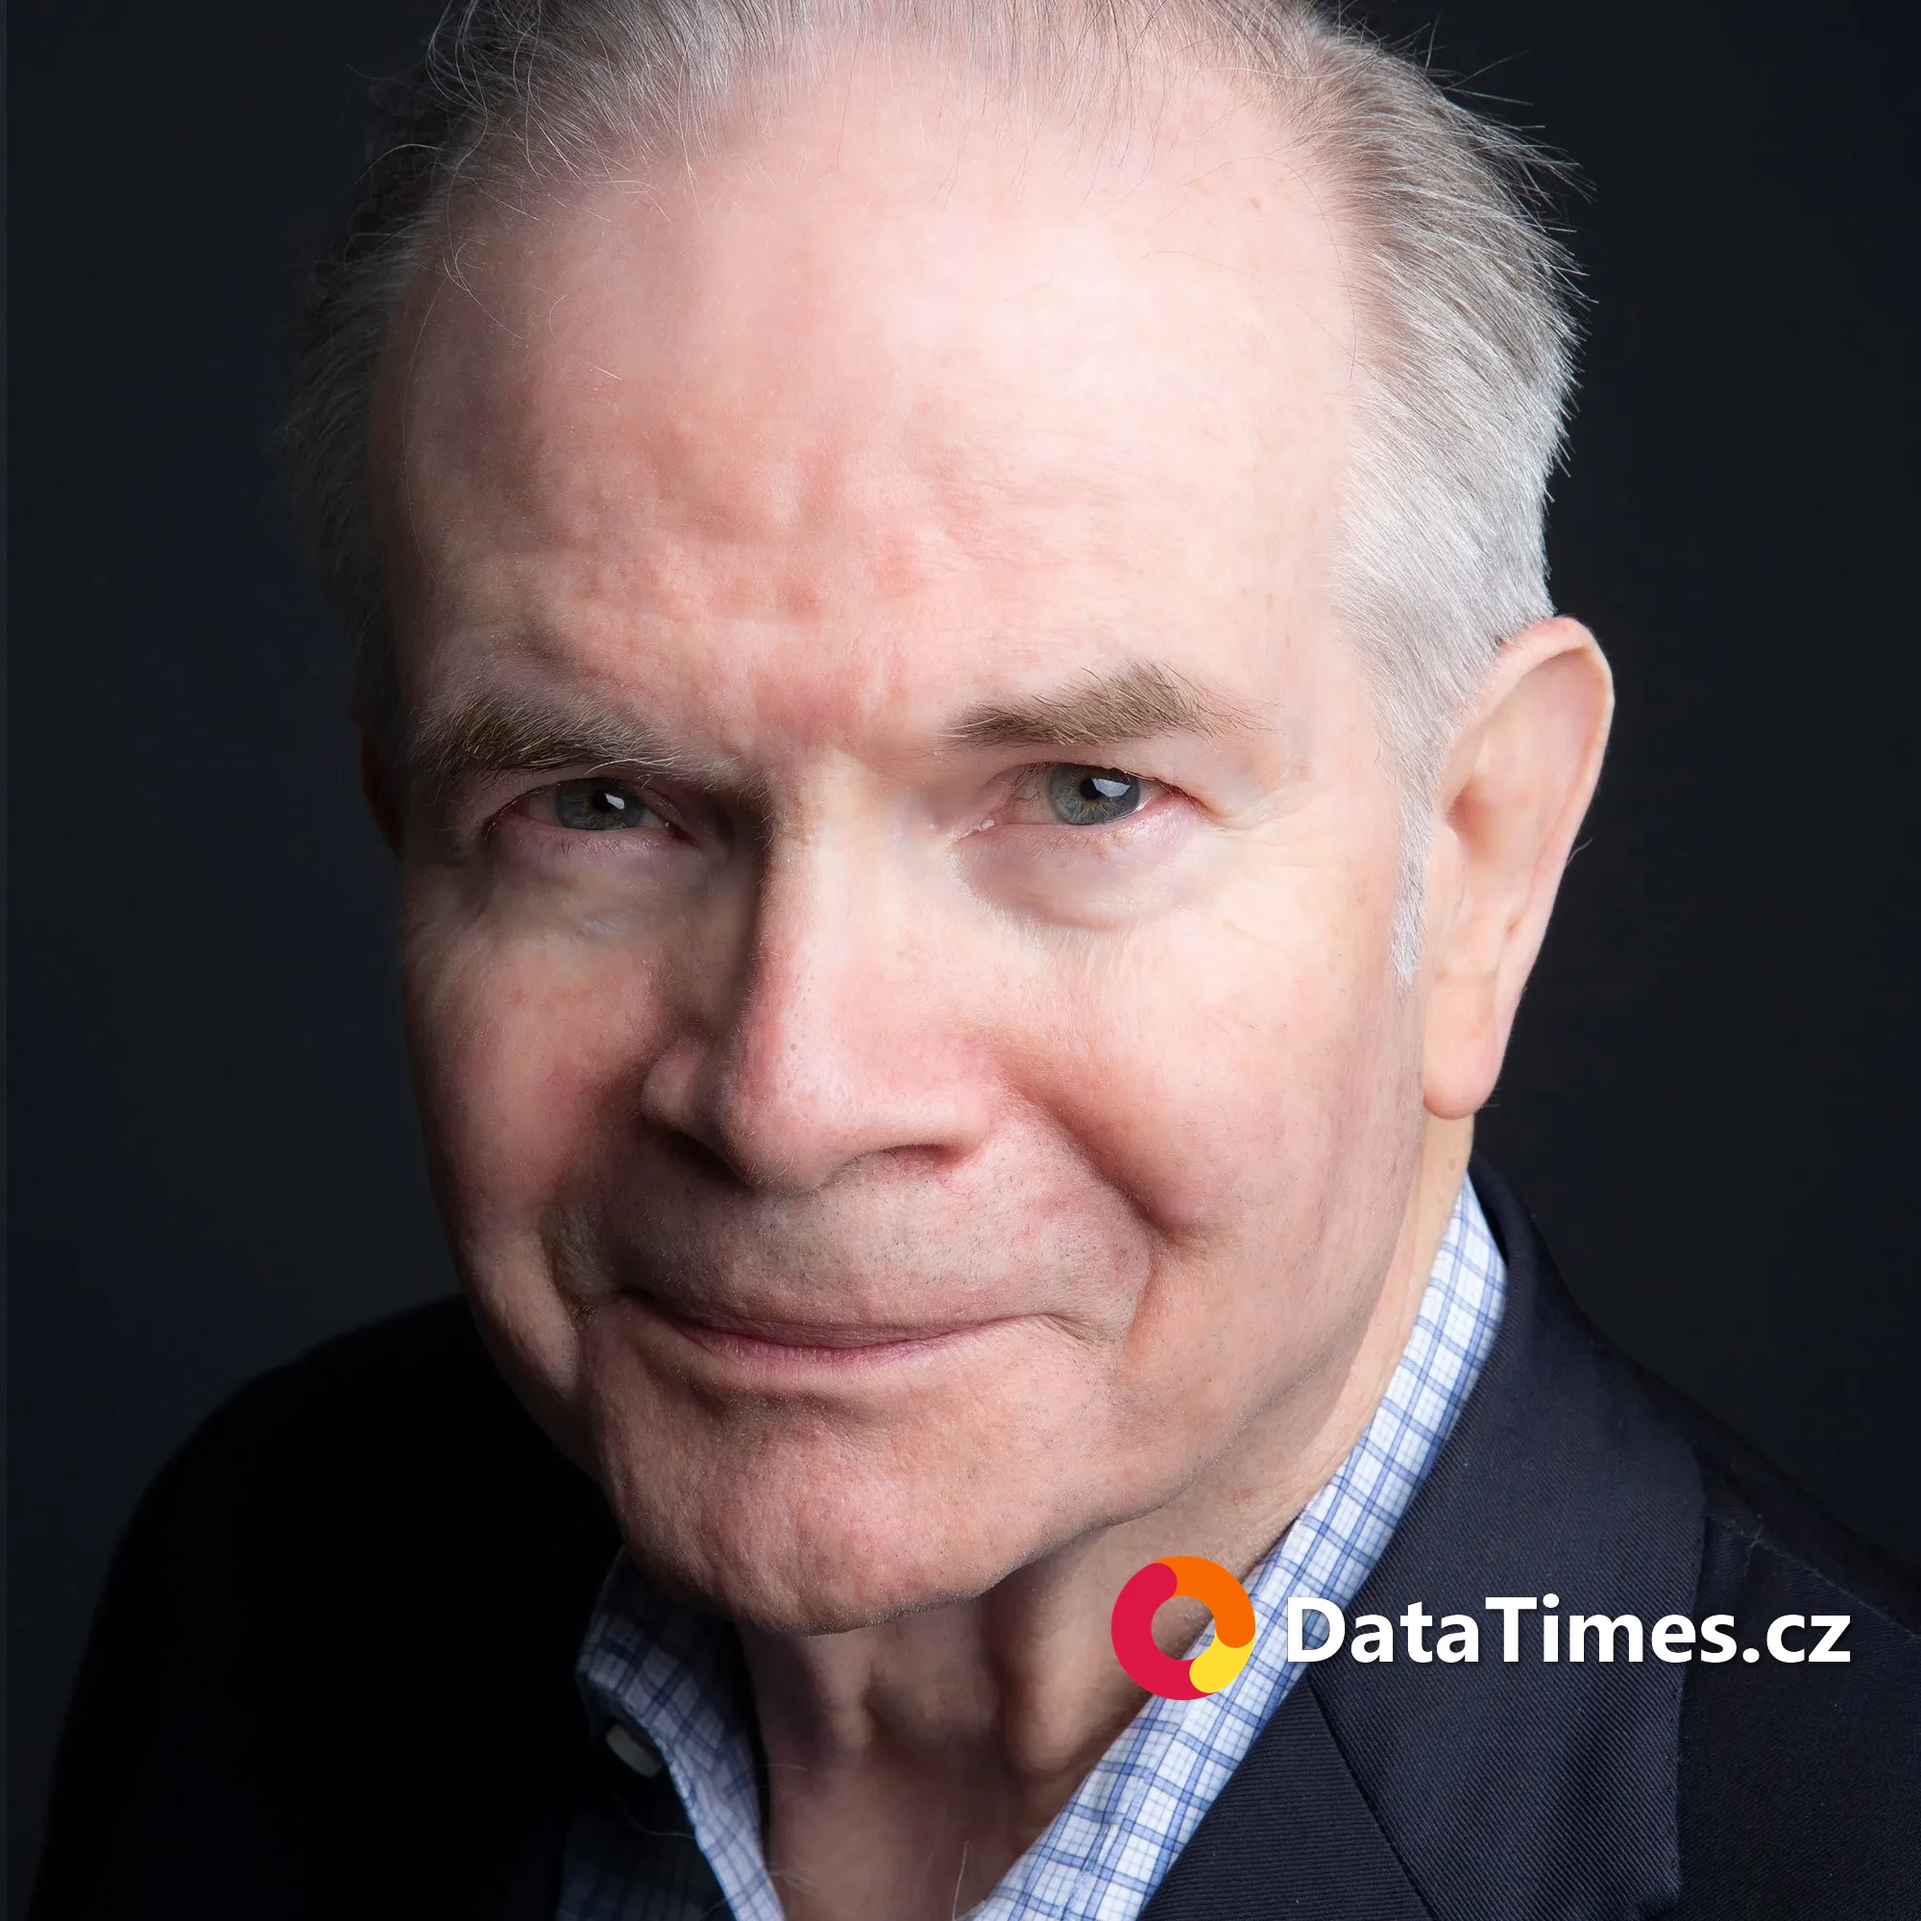
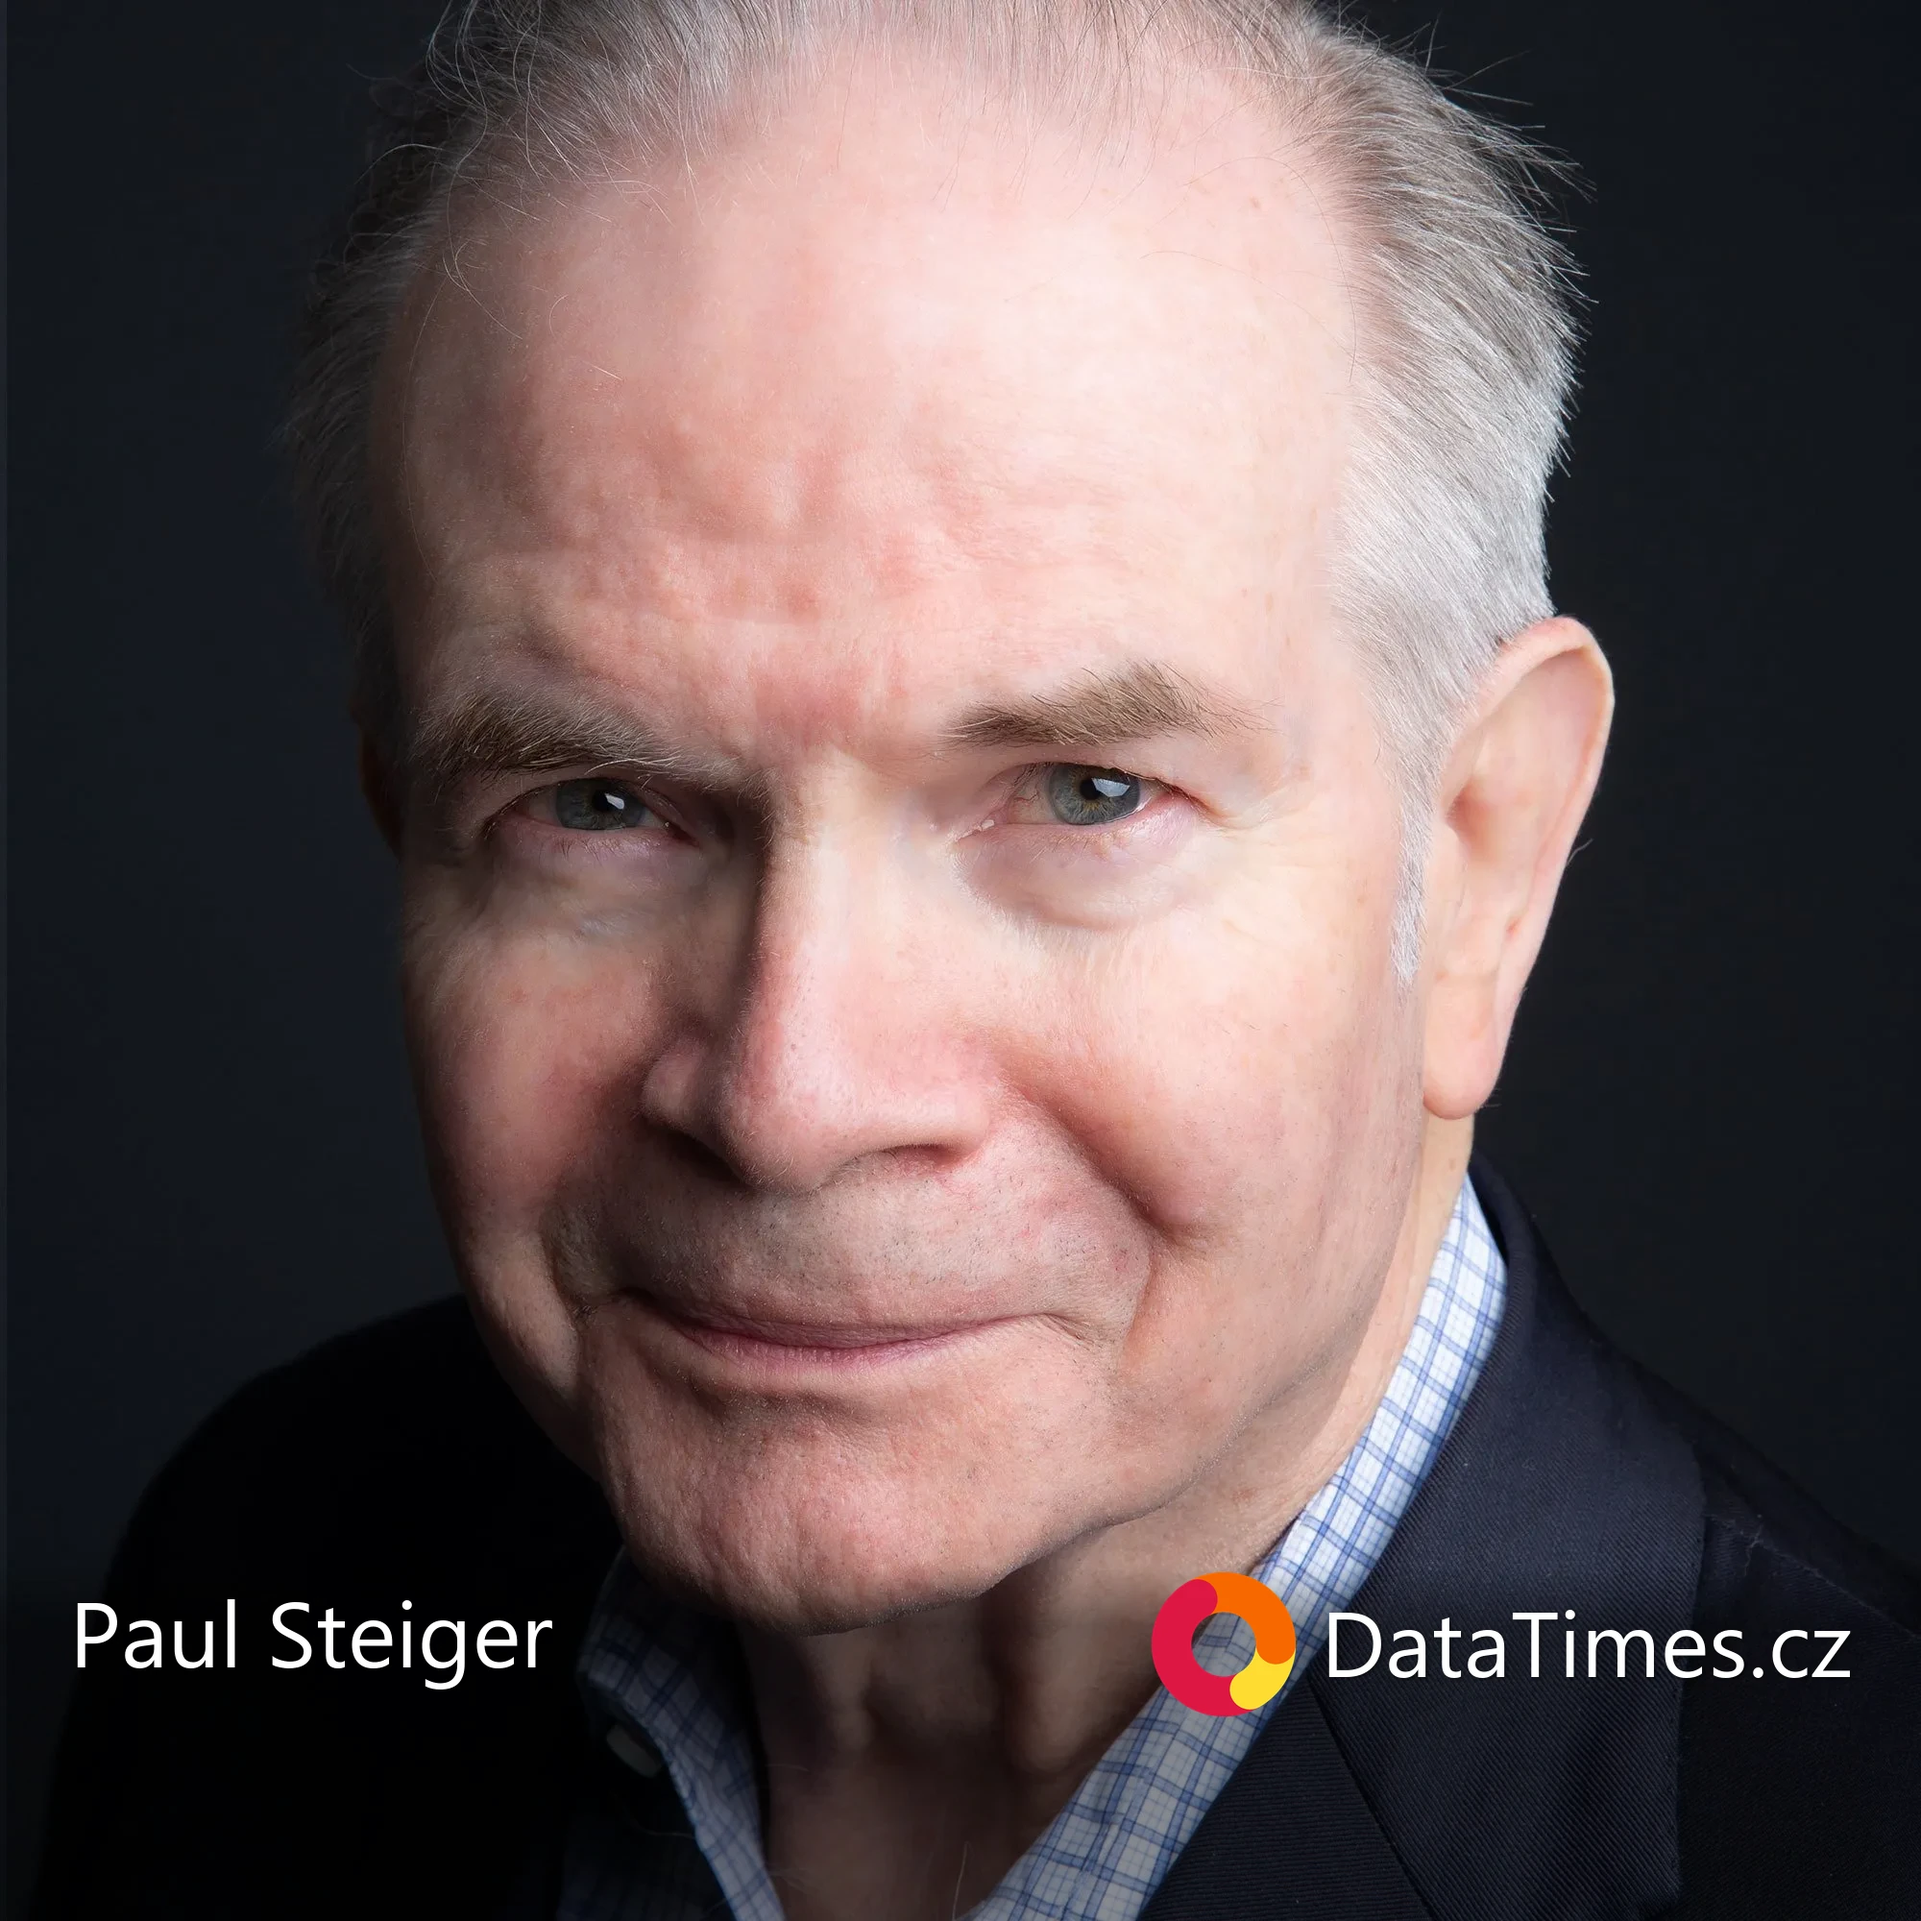
edit(web): Paul Steiger medailonek – jméno na fotce + neutrální „hůl"
Cover: doplněno „Paul Steiger" vlevo dole, oba nápisy Segoe UI regular
(stejná velikost) na jemné tmavé liště jako podkres pro čitelnost.
Text: zdrobnělé „hůlka/hůlkou" nahrazeno neutrálním „hůl/holí" (4×).

Changed region(s): [[0.31, 0.806, 0.961, 1.0], [0.031, 0.837, 0.279, 0.899]]

diff --git a/apps/web/app/clanek/_articles/kontext-2026-08-02-paul-steiger-jsi-fakt-dobra/index.md b/apps/web/app/clanek/_articles/kontext-2026-08-02-paul-steiger-jsi-fakt-dobra/index.md
@@ -2,14 +2,14 @@
 title: "Paul Steiger: Jsi fakt dobrá! Spoj se s těmi nejlepšími"
 date: "2026-08-02"
 author: "Kateřina Mahdalová"
-excerpt: "V nočním Lisabonu jsem pomohla staršímu pánovi s hůlkou po schodech – a ukázalo se, že šestnáct let vedl The Wall Street Journal a založil ProPublica. Vzpomínka na Paula Steigera a na to, proč objektivita neznamená stát uprostřed."
+excerpt: "V nočním Lisabonu jsem pomohla staršímu pánovi s holí po schodech – a ukázalo se, že šestnáct let vedl The Wall Street Journal a založil ProPublica. Vzpomínka na Paula Steigera a na to, proč objektivita neznamená stát uprostřed."
 coverImage: "images/paul-steiger-pro-publica-datatimes.webp"
 coverFit: cover
 filter: ["kontext"]
 tags: ["profil", "žurnalistika", "média", "ProPublica", "The Wall Street Journal", "objektivita", "Daniel Pearl", "USA"]
 promoted: 0
 ---
-Paula Steigera jsem několik minut vůbec nepoznala. Bylo to v roce 2018 v Lisabonu, po skončení jednoho z večerů GEN Summitu. Pomohla jsem staršímu pánovi s hůlkou po schodech, sedli jsme si k venkovnímu stolku a začali si povídat – o žurnalistice. Až po nějaké chvíli mu říkám, že jsme se vlastně ještě nepředstavili – smál se, podali jsme si ruku a já zjistila, že tu v centru nočního Lisabonu sedím s člověkem, který šestnáct let vedl The Wall Street Journal. A že později založil projekt ProPublica, který významně ovlivnil můj start coby samostatné datové novinářky. A tohle noční setkání nakonec ovlivnilo i moji další profesní cestu. Ukazovala jsem mu, co dělám, jak jsem si objevila úžasný obor – datovou žurnalistiku – a že už několik let mimo jiné tvořím vizualizace. Vedla jsem v té době datové projekty v ČTK, a on říkal, že jsem fakt dobrá.
+Paula Steigera jsem několik minut vůbec nepoznala. Bylo to v roce 2018 v Lisabonu, po skončení jednoho z večerů GEN Summitu. Pomohla jsem staršímu pánovi s holí po schodech, sedli jsme si k venkovnímu stolku a začali si povídat – o žurnalistice. Až po nějaké chvíli mu říkám, že jsme se vlastně ještě nepředstavili – smál se, podali jsme si ruku a já zjistila, že tu v centru nočního Lisabonu sedím s člověkem, který šestnáct let vedl The Wall Street Journal. A že později založil projekt ProPublica, který významně ovlivnil můj start coby samostatné datové novinářky. A tohle noční setkání nakonec ovlivnilo i moji další profesní cestu. Ukazovala jsem mu, co dělám, jak jsem si objevila úžasný obor – datovou žurnalistiku – a že už několik let mimo jiné tvořím vizualizace. Vedla jsem v té době datové projekty v ČTK, a on říkal, že jsem fakt dobrá.
 
 Paul Steiger patřil k nejvýraznějším americkým novinářům své generace. V žurnalistice strávil více než půl století. Pracoval v Los Angeles Times a The Wall Street Journal, který v letech 1991 až 2007 vedl jako managing editor. Za dobu jeho vedení získala redakce šestnáct Pulitzerových cen. Později založil neziskovou investigativní redakci ProPublica a stal se jejím prvním šéfredaktorem, prezidentem a CEO. Vedl také Committee to Protect Journalists a působil v Pulitzerově výboru.
 
@@ -21,7 +21,7 @@ Jeho úvahy o financování médií z té doby dnes znějí až překvapivě sou
 **Čtěte také:** [Co chtěli majitelé Amazonu a eBay od žurnalistiky – celý rozhovor Paula Steigera pro Der Spiegel (2013) v našem překladu](/clanek/kontext-2026-08-01-paul-steiger-der-spiegel-potrebujeme-utopie)
 ```
 
-## Starší pán s hůlkou v lisabonském klubu
+## Starší pán s holí v lisabonském klubu
 
 Se Steigerem jsem se poprvé opravdu potkala v roce 2018 na GEN Summitu v Lisabonu.
 
@@ -31,7 +31,7 @@ Paul Steiger byl s touto soutěží spojen dlouhodobě. V roce 2018 předsedal j
 
 Po jedné z ceremonií jsme pokračovali později večer do klubu. Seděla jsem tam s Martinem Štverákem, o němž jsem tehdy ještě netušila, že se za několik let stane mým kolegou v Seznamu.
 
-Ze dveří vedoucích po schodech ze suterénu vyšel starší muž s hůlkou. Šel do schodů s obtížemi, tak jsem mu nabídla pomoc, kterou přijal.
+Ze dveří vedoucích po schodech ze suterénu vyšel starší muž s holí. Šel do schodů s obtížemi, tak jsem mu nabídla pomoc, kterou přijal.
 
 Nabídla jsem mu rámě, on se o mě opřel a potom jsme si sedli ke stolu.
 
